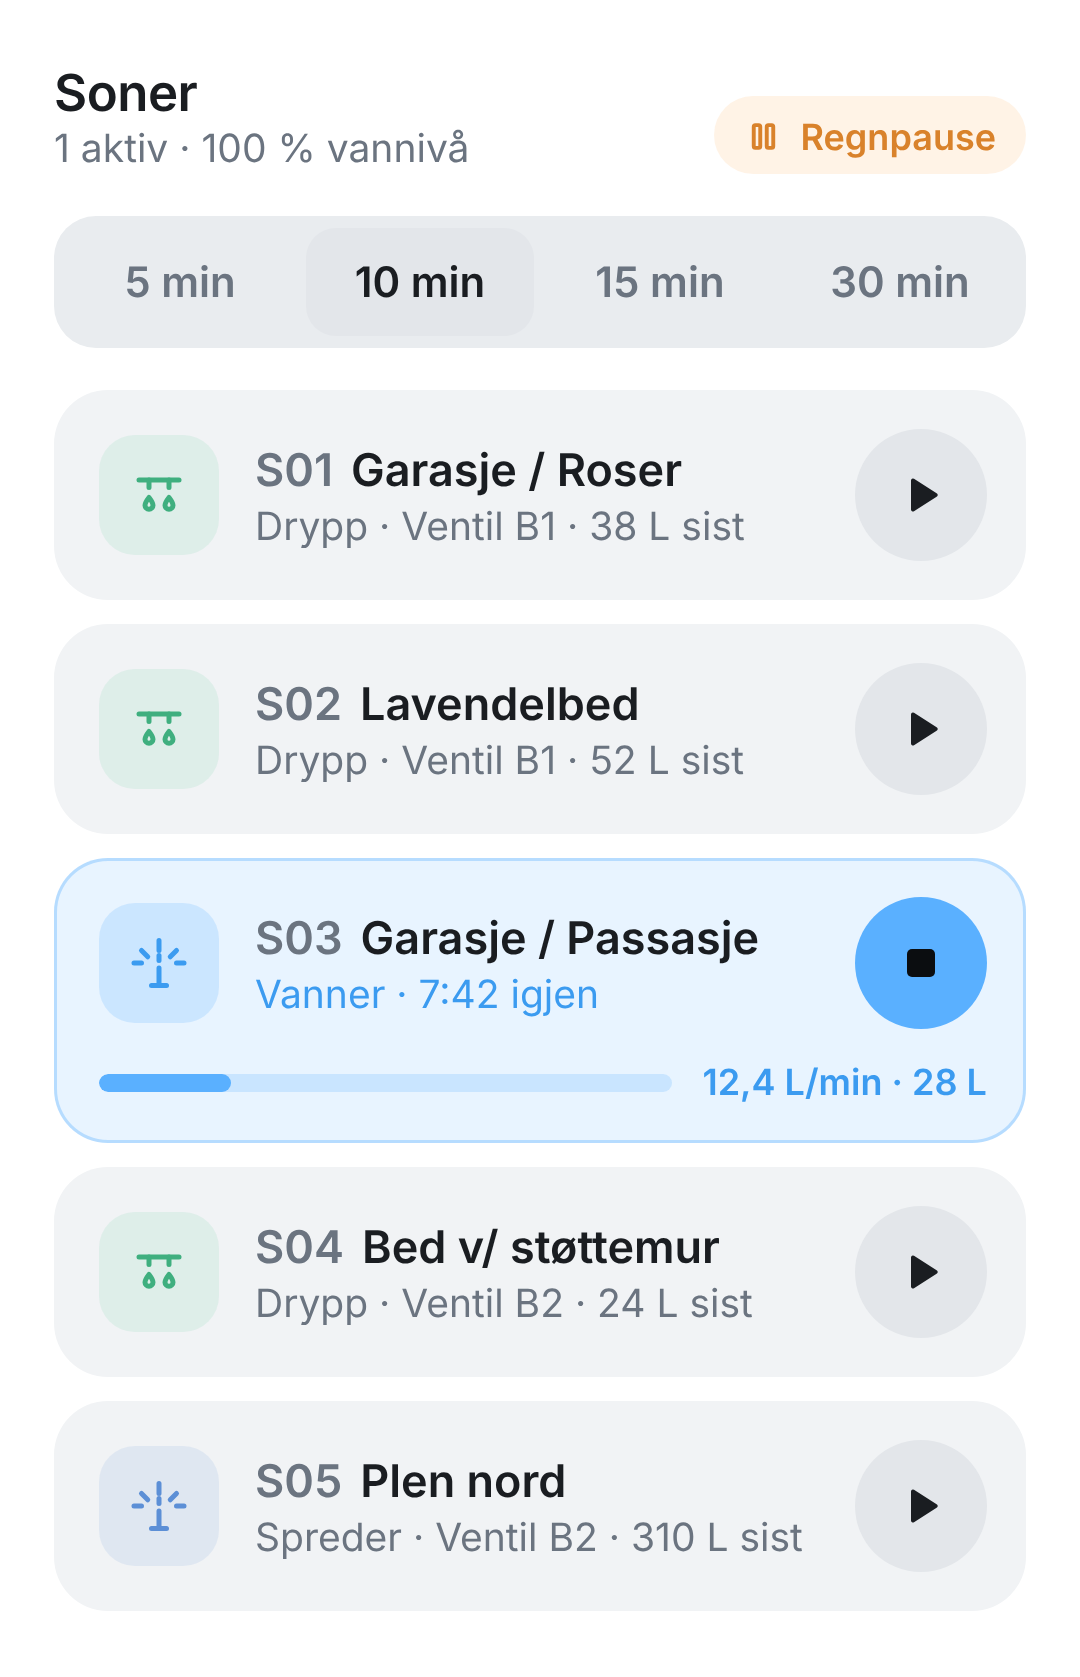
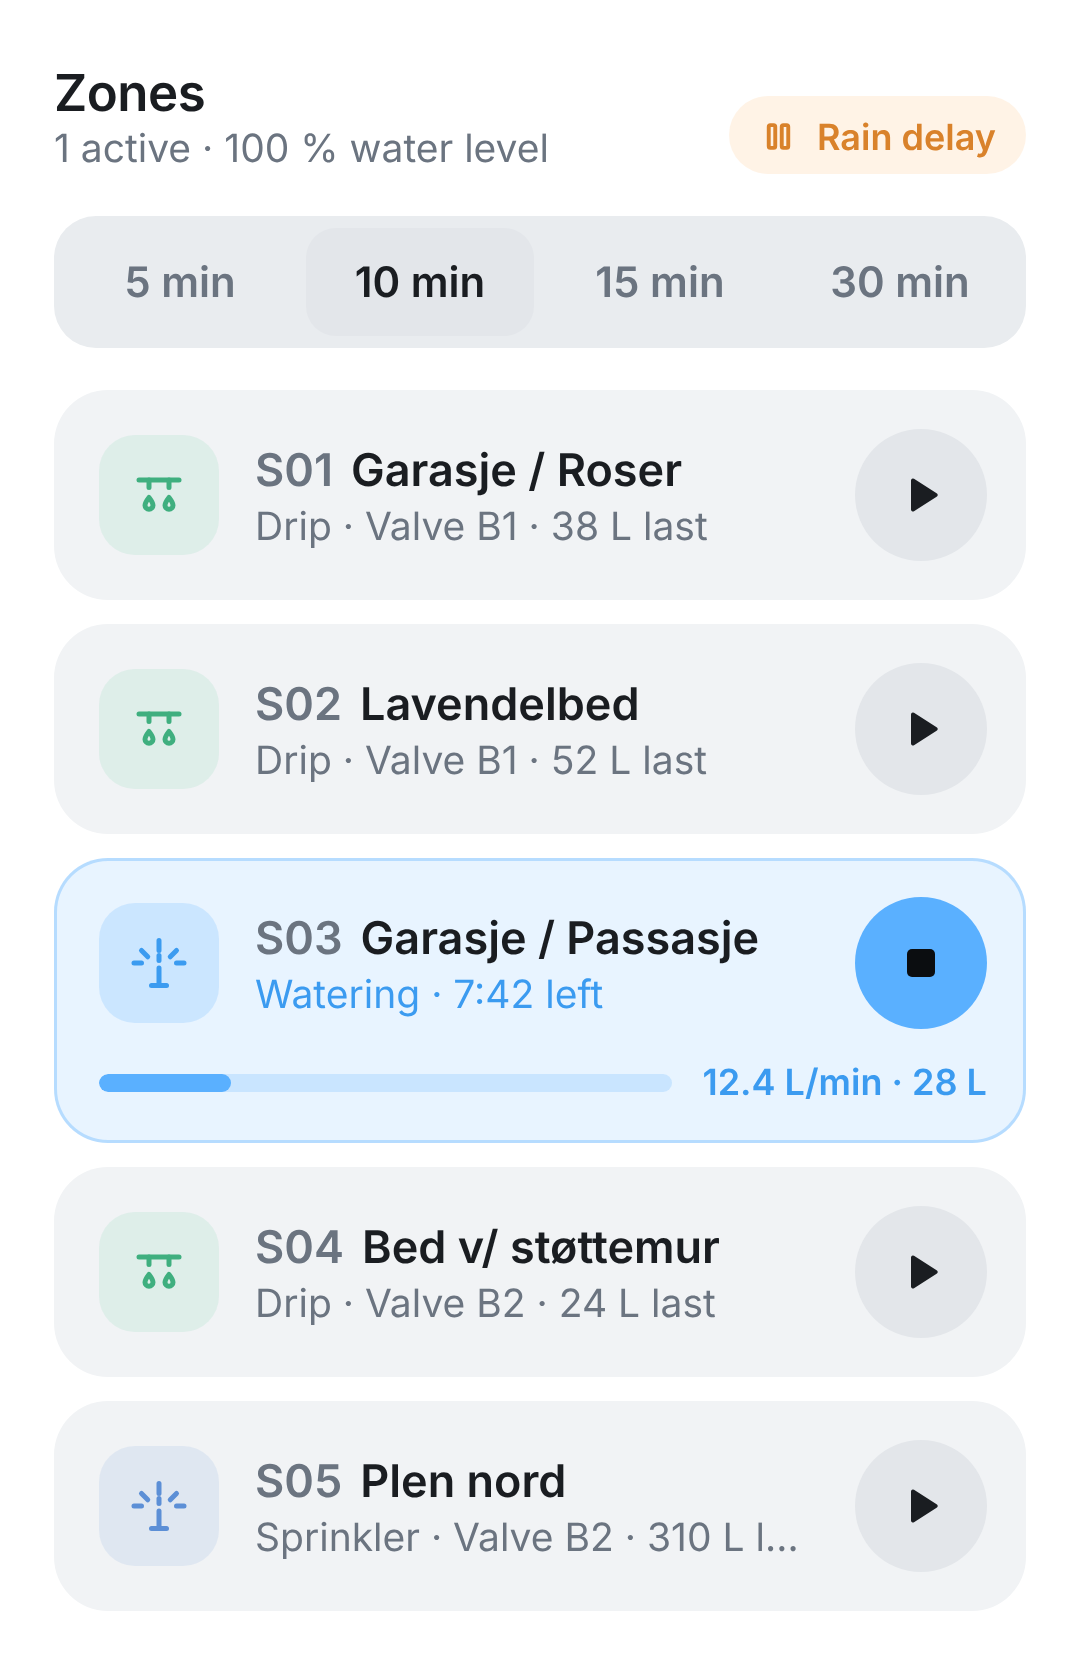
Prepare for App Store: new app id, store readme, metadata and full English support
Claude-Session: https://claude.ai/code/session_01DFJjaFe3Fizt1ZsxDbVjcR

diff --git a/widgets/zones/public/index.html b/widgets/zones/public/index.html
@@ -66,17 +66,23 @@
   const NO = {
     zones: 'Soner', zones_n: 'soner', none_active: 'ingen aktive', active: 'aktiv', water_level: 'vannivå', rain_delay: 'Regnpause',
     run_time: 'Kjøretid for manuell start', drip: 'Drypp', spray: 'Spreder', valve: 'Ventil', watering: 'Vanner', left: 'igjen',
-    waiting: 'Venter', disabled: 'Deaktivert', last: 'sist', start: 'Start', stop: 'Stopp', in: 'i', controller_off: 'Kontrolleren er av', offline: 'Frakoblet',
+    waiting: 'Venter', manual: 'Manuell', run_once: 'Kjør én gang', disabled: 'Deaktivert', last: 'sist', start: 'Start', stop: 'Stopp', in: 'i', controller_off: 'Kontrolleren er av', offline: 'Frakoblet',
   };
+
+  const EN = {
+    manual: 'Manual', run_once: 'Run-once', zones: 'Zones', zones_n: 'zones', none_active: 'none active', active: 'active', water_level: 'water level', rain_delay: 'Rain delay', run_time: 'Run time for manual start', drip: 'Drip', spray: 'Sprinkler', valve: 'Valve', watering: 'Watering', left: 'left', waiting: 'Waiting', disabled: 'Disabled', last: 'last', start: 'Start', stop: 'Stop', in: 'for', controller_off: 'The controller is off', offline: 'Offline',
+  };
+  const FALLBACK = /^(nb|nn|no)/i.test(navigator.language || '') ? NO : EN;
 
   function onHomeyReady(Homey) {
     const settings = Homey.getSettings() || {};
     const ctrlId = settings.controller && settings.controller.id;
-    const t = k => { try { const v = Homey.__(`widget.${k}`); if (v && v !== `widget.${k}`) return v; } catch (e) { /* no i18n */ } return NO[k]; };
+    const t = k => { try { const v = Homey.__(`widget.${k}`); if (v && v !== `widget.${k}`) return v; } catch (e) { /* no i18n */ } return FALLBACK[k]; };
     const $ = id => document.getElementById(id);
     const esc = s => String(s == null ? '' : s).replace(/[&<>"]/g, c => ({ '&': '&amp;', '<': '&lt;', '>': '&gt;', '"': '&quot;' }[c]));
     const fmt = sec => { sec = Math.max(0, Math.round(sec)); return `${Math.floor(sec / 60)}:${String(sec % 60).padStart(2, '0')}`; };
-    const num = (v, d) => Number(v).toLocaleString('nb-NO', { minimumFractionDigits: d, maximumFractionDigits: d });
+    const num = (v, d) => Number(v).toLocaleString(undefined, { minimumFractionDigits: d, maximumFractionDigits: d });
+    const progName = p => (p === 'Manual' ? t('manual') : p === 'Run-once' ? t('run_once') : p);
     const litres = l => (l >= 1000 ? `${num(l / 1000, 2)} m³` : `${num(l, 0)} L`);
 
     // Selected run time, remembered per widget instance.
@@ -112,7 +118,7 @@
         if (z.running) {
           meta = `${t('watering')} · ${fmt(z.remaining - el)} ${t('left')}`;
         } else if (z.waiting) {
-          meta = `${t('waiting')}${z.program ? ` · ${esc(z.program)}` : ''}`;
+          meta = `${t('waiting')}${z.program ? ` · ${esc(progName(z.program))}` : ''}`;
         } else if (z.disabled) {
           meta = t('disabled');
         } else {

diff --git a/drivers/station/device.js b/drivers/station/device.js
@@ -77,10 +77,10 @@ class StationDevice extends Homey.Device {
     if (!z) return;
     if (!this.getAvailable()) await this.setAvailable();
     const parsed = parseZoneName(z.name, this.sid);
-    const typeLabel = this.getSetting('sprinkler_type') === 'spray' ? 'Spreder' : 'Drypp';
-    this._idleStatus = parsed.valve ? `Av · ${typeLabel} ${parsed.valve}` : `Av · ${typeLabel}`;
-    if (z.disabled) this._idleStatus = 'Deaktivert';
-    else if (z.waiting) this._idleStatus = 'Venter';
+    const typeLabel = this.homey.__(this.getSetting('sprinkler_type') === 'spray' ? 'status.spray' : 'status.drip');
+    this._idleStatus = `${this.homey.__('status.off')} · ${typeLabel}${parsed.valve ? ` ${parsed.valve}` : ''}`;
+    if (z.disabled) this._idleStatus = this.homey.__('status.disabled');
+    else if (z.waiting) this._idleStatus = this.homey.__('status.waiting');
     this._program = z.program;
     // Remember when the run ends so the countdown can tick between polls.
     this._endsAt = z.running ? Date.now() + z.remaining * 1000 : null;
@@ -98,8 +98,9 @@ class StationDevice extends Homey.Device {
     if (z.running !== wasRunning && this.homey.app.water) this.homey.app.water.update();
   }
 
-  static formatLeft(sec) {
-    if (sec >= 3600) return `${Math.floor(sec / 3600)} t ${Math.floor((sec % 3600) / 60)} min`;
+  _formatLeft(sec) {
+    const h = this.homey.__('status.h');
+    if (sec >= 3600) return `${Math.floor(sec / 3600)} ${h} ${Math.floor((sec % 3600) / 60)} min`;
     if (sec >= 60) return `${Math.ceil(sec / 60)} min`;
     return `${Math.max(0, Math.round(sec))} s`;
   }
@@ -109,8 +110,8 @@ class StationDevice extends Homey.Device {
     const left = this._endsAt ? Math.max(0, (this._endsAt - Date.now()) / 1000) : 0;
     let status = this._idleStatus || '';
     if (this._endsAt) {
-      status = `Vanner · ${StationDevice.formatLeft(left)} igjen`;
-      if (this._program && this._program !== 'Manual') status += ` (${this._program})`;
+      status = this.homey.__('status.watering', { left: this._formatLeft(left) });
+      if (this._program && this._program !== 'Manual') status += ` (${this._program === 'Run-once' ? this.homey.__('status.run_once') : this._program})`;
     }
     const remaining = Math.round((left / 60) * 10) / 10;
     if (this.getCapabilityValue('os_status') !== status) await this.setCapabilityValue('os_status', status);

diff --git a/widgets/controller/public/index.html b/widgets/controller/public/index.html
@@ -71,14 +71,19 @@
     running_now: 'Kjører nå', none: 'Ingen', flow_now: 'Vannflyt nå', consumption: 'Forbruk', h: 't',
   };
 
+  const EN = {
+    connected: 'Connected', disabled: 'Disabled', offline: 'Offline', toggle: 'Turn controller on or off', delay_until: 'Rain delay until', left: 'left', cancel: 'Cancel', no_delay: 'No rain delay', pause24: 'Pause 24 h', water_level: 'water level', lower: 'Lower water level', raise: 'Raise water level', rain_sensor: 'Rain sensor', dry: 'Dry', wet: 'Wet', running_now: 'Running now', none: 'None', flow_now: 'Flow now', consumption: 'Consumption', h: 'h',
+  };
+  const FALLBACK = /^(nb|nn|no)/i.test(navigator.language || '') ? NO : EN;
+
   function onHomeyReady(Homey) {
     const settings = Homey.getSettings() || {};
     const ctrlId = settings.controller && settings.controller.id;
-    const t = k => { try { const v = Homey.__(`widget.${k}`); if (v && v !== `widget.${k}`) return v; } catch (e) { /* no i18n */ } return NO[k]; };
+    const t = k => { try { const v = Homey.__(`widget.${k}`); if (v && v !== `widget.${k}`) return v; } catch (e) { /* no i18n */ } return FALLBACK[k]; };
     const root = document.getElementById('root');
     const esc = s => String(s == null ? '' : s).replace(/[&<>"]/g, c => ({ '&': '&amp;', '<': '&lt;', '>': '&gt;', '"': '&quot;' }[c]));
     const fmt = sec => { sec = Math.max(0, Math.round(sec)); return `${Math.floor(sec / 60)}:${String(sec % 60).padStart(2, '0')}`; };
-    const num = (v, d) => Number(v).toLocaleString('nb-NO', { minimumFractionDigits: d, maximumFractionDigits: d });
+    const num = (v, d) => Number(v).toLocaleString(undefined, { minimumFractionDigits: d, maximumFractionDigits: d });
     let state = null; let fetchedAt = 0; let busy = false; let lastHeight = 0; let error = null;
 
     function render() {

diff --git a/lib/MasterValve.js b/lib/MasterValve.js
@@ -29,7 +29,7 @@ class MasterValve {
     const api = await this.getApi();
     const devices = await api.devices.getDevices();
     return Object.values(devices)
-      .filter(d => (d.capabilities || []).includes('onoff') && d.driverId && !String(d.driverId).includes('no.opensprinkler'))
+      .filter(d => (d.capabilities || []).includes('onoff') && d.driverId && !String(d.driverId).includes(this.homey.manifest.id))
       .map(d => ({ id: d.id, name: d.name, on: d.capabilitiesObj && d.capabilitiesObj.onoff ? d.capabilitiesObj.onoff.value : null }));
   }
 

diff --git a/README.md b/README.md
@@ -7,6 +7,10 @@ Homey Pro app (SDK v3) for the [OpenSprinkler](https://opensprinkler.com) irriga
 - **Controller device**: enable/disable, running zones, water level (settable), rain delay + end time, rain sensor
 - **Zone devices**: on/off with configurable default run time, status, remaining time
 - **Flow cards**: run/stop zone, stop all, set rain delay, set water level, run program (with/without weather adjustment), enable/disable program; conditions for zone watering and rain delay
+- **Quick-run buttons** for 5/10/15/30/60 min on every zone
+- **Water metering**: per-zone flow and consumption from a Homey water meter (e.g. Sonoff)
+- **Master valve**: turned on whenever a zone starts
+- **Languages**: English and Norwegian
 - **Dashboard widgets**: *Zones* (live countdown, start/stop per zone) and *Controller* (enable, rain delay, water level, stop all)
 
 ## Install
@@ -18,4 +22,11 @@ homey app install   # or: homey app run
 ```
 
 Add the *OpenSprinkler controller* device first (IP + device password), then add zones.
-Requires Homey firmware >= 12.1.0 (widgets).
+Requires Homey firmware >= 12.3.0.
+
+## Publish
+
+```bash
+homey app publish
+```
+Then submit the version at https://tools.developer.homey.app.
